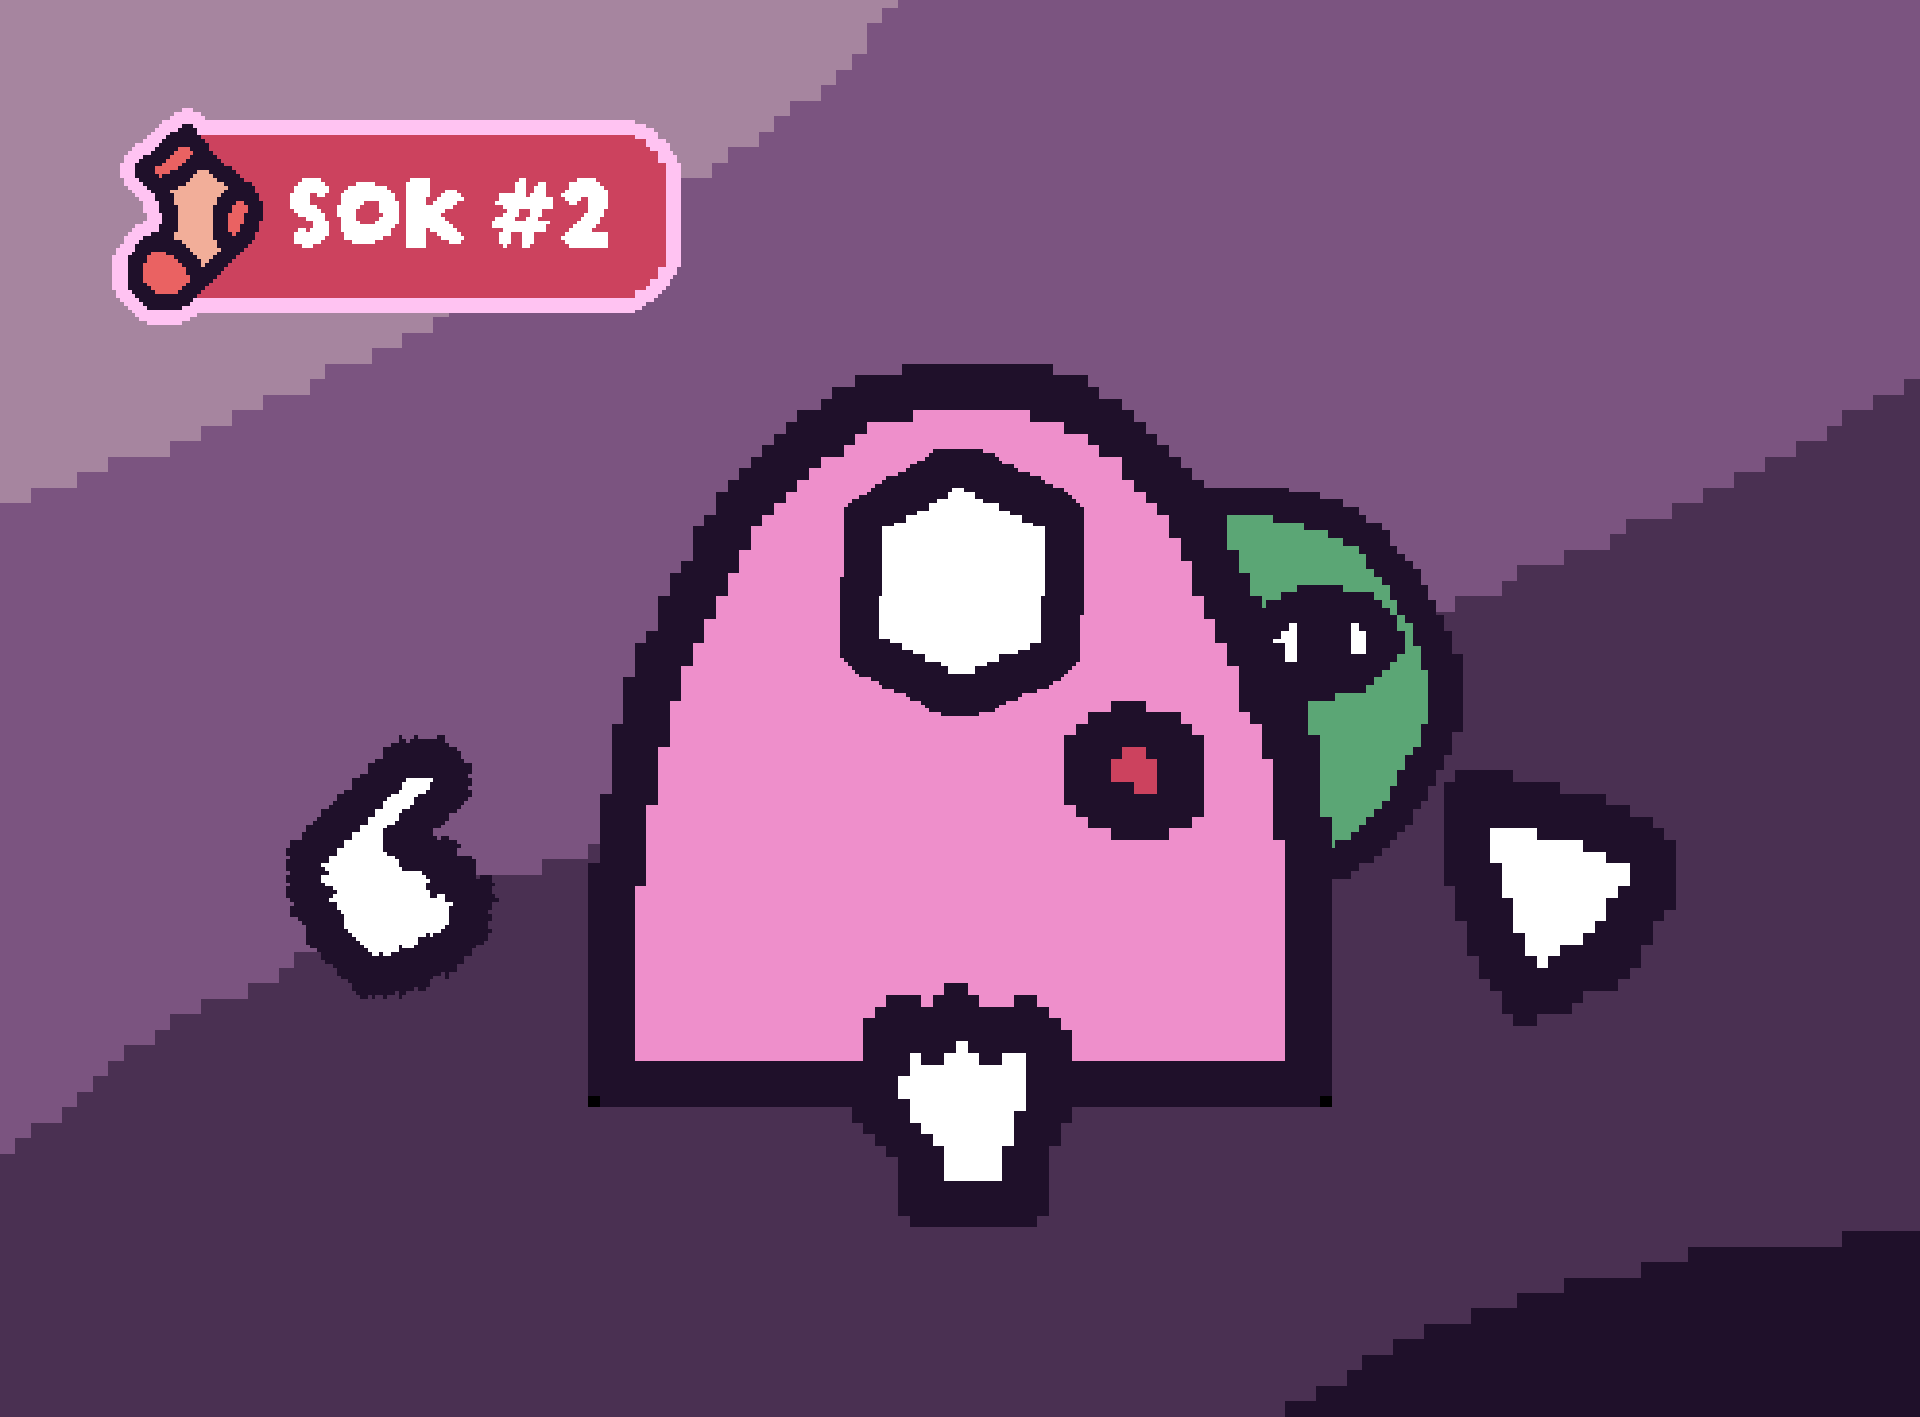
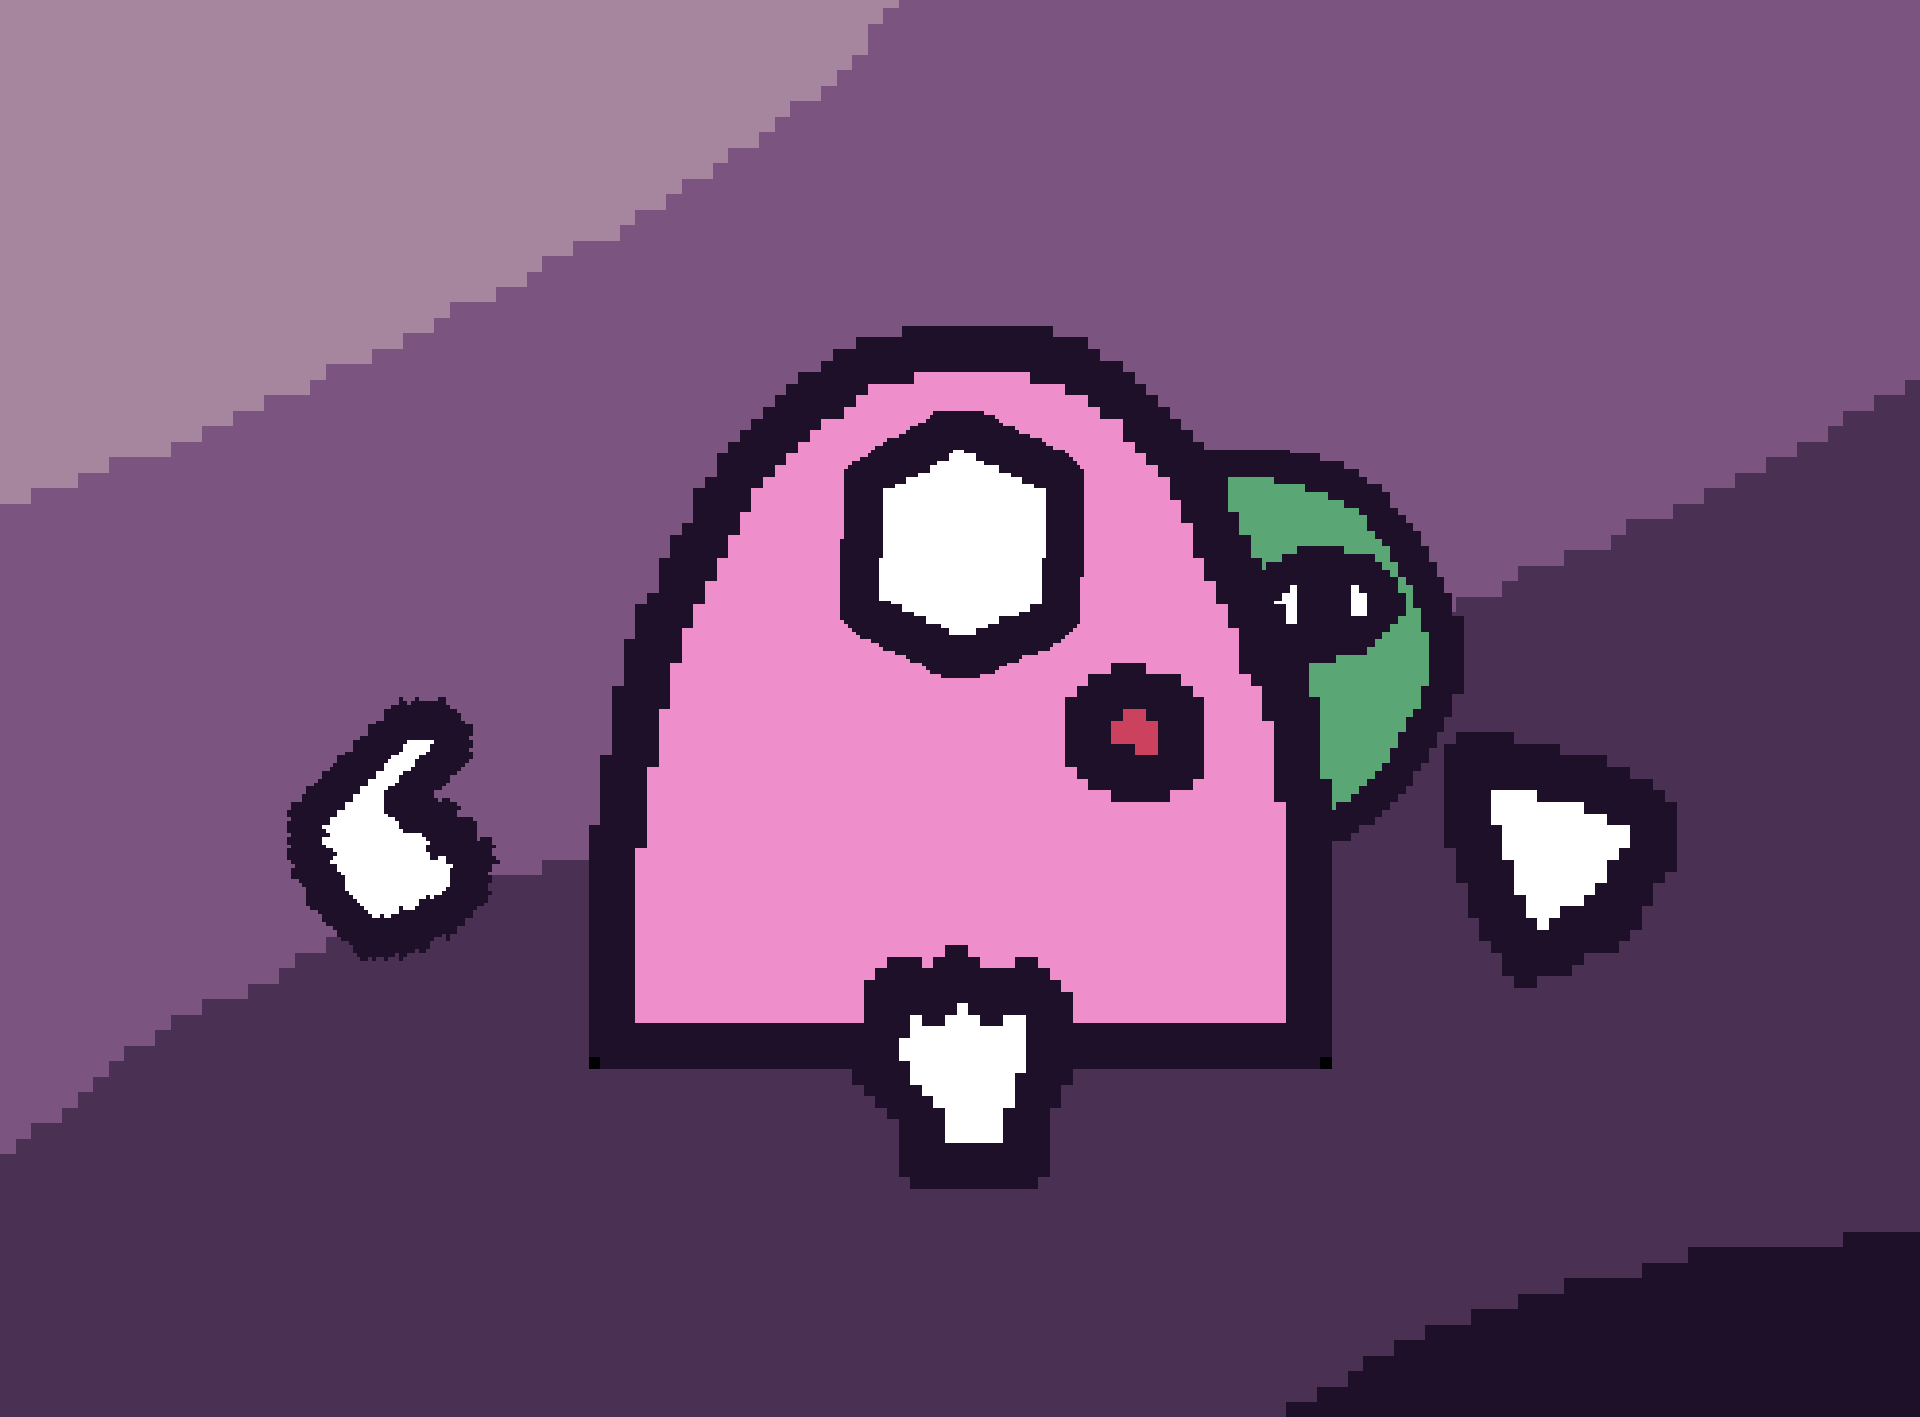
feat: add CrewBadge component and use it to replace baked-in badges in SOK images

diff --git a/src/content/config.ts b/src/content/config.ts
@@ -12,6 +12,13 @@ const blogCollection = defineCollection({
         hidden: z.optional(z.boolean()),
         version: z.optional(z.string()),
         imageFocus: z.tuple([z.string(), z.string()]).optional().nullable(),
+        crewBadge: z.object({
+            crew: z.string(),
+            text: z.string(),
+            textColor: z.string().optional(),
+            bgColor: z.string().optional(),
+            borderColor: z.string().optional(),
+        }).optional(),
     }),
 });
 

diff --git a/src/content/blog/sok2.md b/src/content/blog/sok2.md
@@ -6,6 +6,11 @@ description:
     Explore the latest advancements and community highlights in KAPLAY, the
     successor to Kaboom.js. Discover new features, contributors, and more!
 image: banners/sok2.png
+crewBadge:
+    text: "SOK #2"
+    crew: sok
+    bgColor: red
+    borderColor: lightpink
 ---
 
 # State of KAPLAY #2

diff --git a/src/content/blog/sok4.md b/src/content/blog/sok4.md
@@ -6,6 +6,12 @@ description:
     Explore the latest advancements in KAPLAY.js this 2025
 image: banners/sok4.png
 imageFocus: ["50%", "35%"]
+crewBadge:
+    text: "SOK #4"
+    crew: sok
+    textColor: black
+    bgColor: lime
+    borderColor: yellow
 ---
 
 # State of KAPLAY #4

diff --git a/src/content/blog/sok1.md b/src/content/blog/sok1.md
@@ -7,6 +7,11 @@ description:
     successor to Kaboom.js. Discover new features, contributors, and more!
 image: banners/sok1.png
 imageFocus: ["50%", "44%"]
+crewBadge:
+    text: "SOK #1"
+    crew: sok
+    bgColor: pink
+    borderColor: lightpink
 ---
 
 # State of KAPLAY #1

diff --git a/src/content/blog/sok5.md b/src/content/blog/sok5.md
@@ -4,6 +4,12 @@ author: "lajbel"
 date: 06/13/2025
 description: All the latest updates on KAPLAY, SOCKS 5
 image: banners/sok5.png
+crewBadge:
+    text: "SOK #5"
+    crew: sok
+    textColor: white
+    bgColor: purple
+    borderColor: lightpink
 ---
 
 # State of KAPLAY #5
